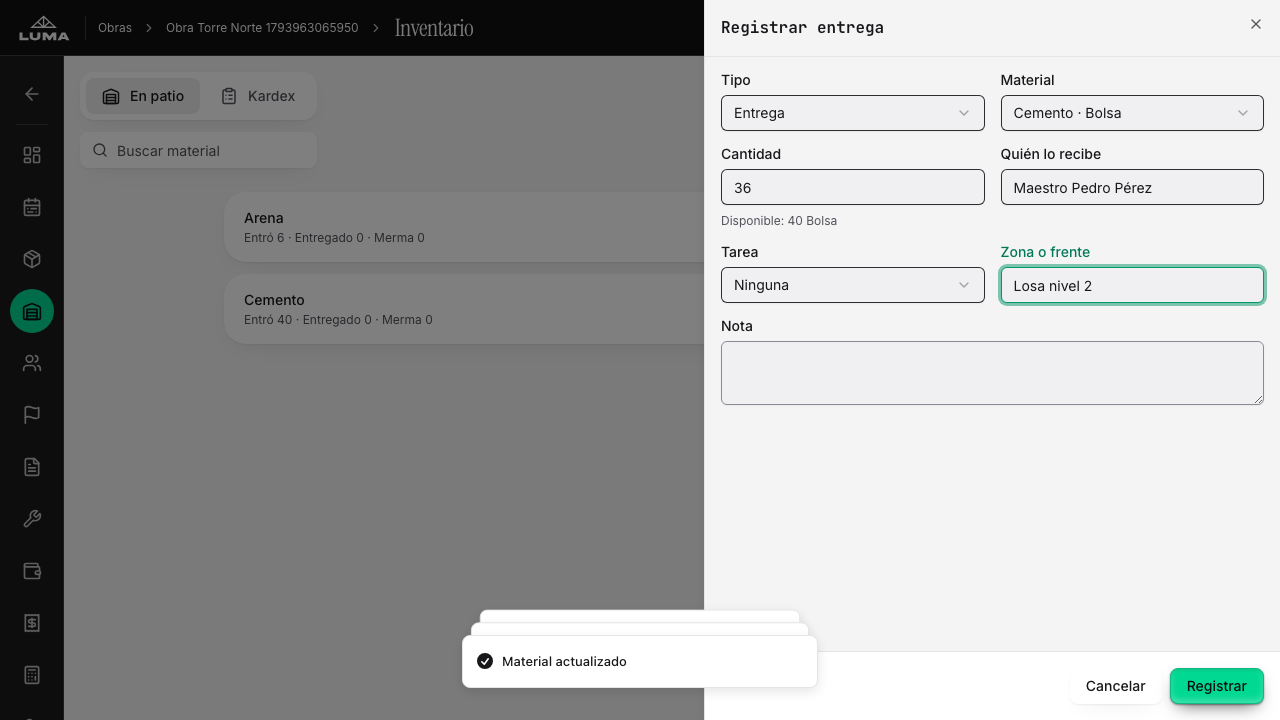
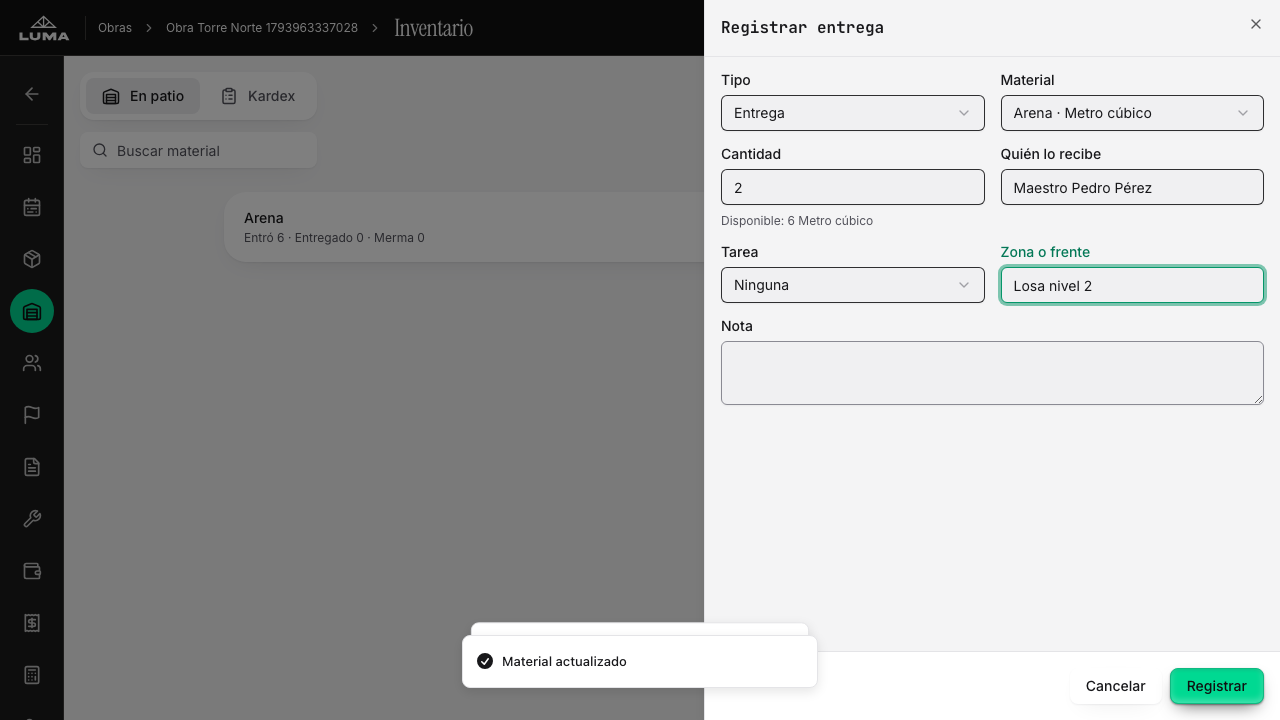
fix(web): los campos de Enviar al Depósito y de Importar quedan alineados
El rótulo «Costo unitario de referencia (USD)» ocupaba dos líneas en la columna
angosta y empujaba su campo por debajo del de Cantidad. Los dos formularios
pasan a una sola columna, que no depende del largo del rótulo en cada idioma.
Capturas del PR actualizadas.

diff --git a/packages/web/src/components/inventory/send-to-deposit-drawer.tsx b/packages/web/src/components/inventory/send-to-deposit-drawer.tsx
@@ -77,7 +77,7 @@ export function SendToDepositDrawer({
       }}
       title={t('inventory.deposit.sendTitle', { name: item?.name ?? '' })}
       description={t('inventory.deposit.sendHint')}
-      fieldCount={4}
+      fieldCount={3}
       submitLabel={t('inventory.deposit.sendSubmit')}
       isSubmitting={send.isPending}
       error={send.error}
@@ -85,7 +85,11 @@ export function SendToDepositDrawer({
         send.mutate({ ...values, note: values.note || undefined }, { onSuccess: close }),
       )}
     >
-      <div className="grid gap-4 sm:grid-cols-2">
+      {/*
+        Una columna: en un panel angosto el rótulo «Costo unitario de referencia» ocupa
+        dos líneas (más en pt) y empuja su campo hacia abajo del de al lado.
+      */}
+      <div className="grid gap-4">
         <div className="flex flex-col gap-2">
           <Label htmlFor="deposit-quantity">{t('inventory.movement.quantity')}</Label>
           <Input
@@ -119,7 +123,7 @@ export function SendToDepositDrawer({
           {errors.unitCost && <p className="text-sm text-destructive">{errors.unitCost.message}</p>}
         </div>
 
-        <div className="flex flex-col gap-2 sm:col-span-2">
+        <div className="flex flex-col gap-2">
           <Label htmlFor="deposit-note">{t('inventory.movement.note')}</Label>
           <Textarea id="deposit-note" rows={2} {...register('note')} />
         </div>

diff --git a/packages/web/src/components/inventory/import-from-deposit-drawer.tsx b/packages/web/src/components/inventory/import-from-deposit-drawer.tsx
@@ -118,7 +118,7 @@ export function ImportFromDepositDrawer({
       )}
 
       {canChargeFreight && lines.length > 0 && (
-        <div className="grid gap-4 sm:grid-cols-2">
+        <div className="grid gap-4">
           <div className="flex flex-col gap-2">
             <Label htmlFor="freight-amount">{t('inventory.deposit.freight', { currency })}</Label>
             <Input
